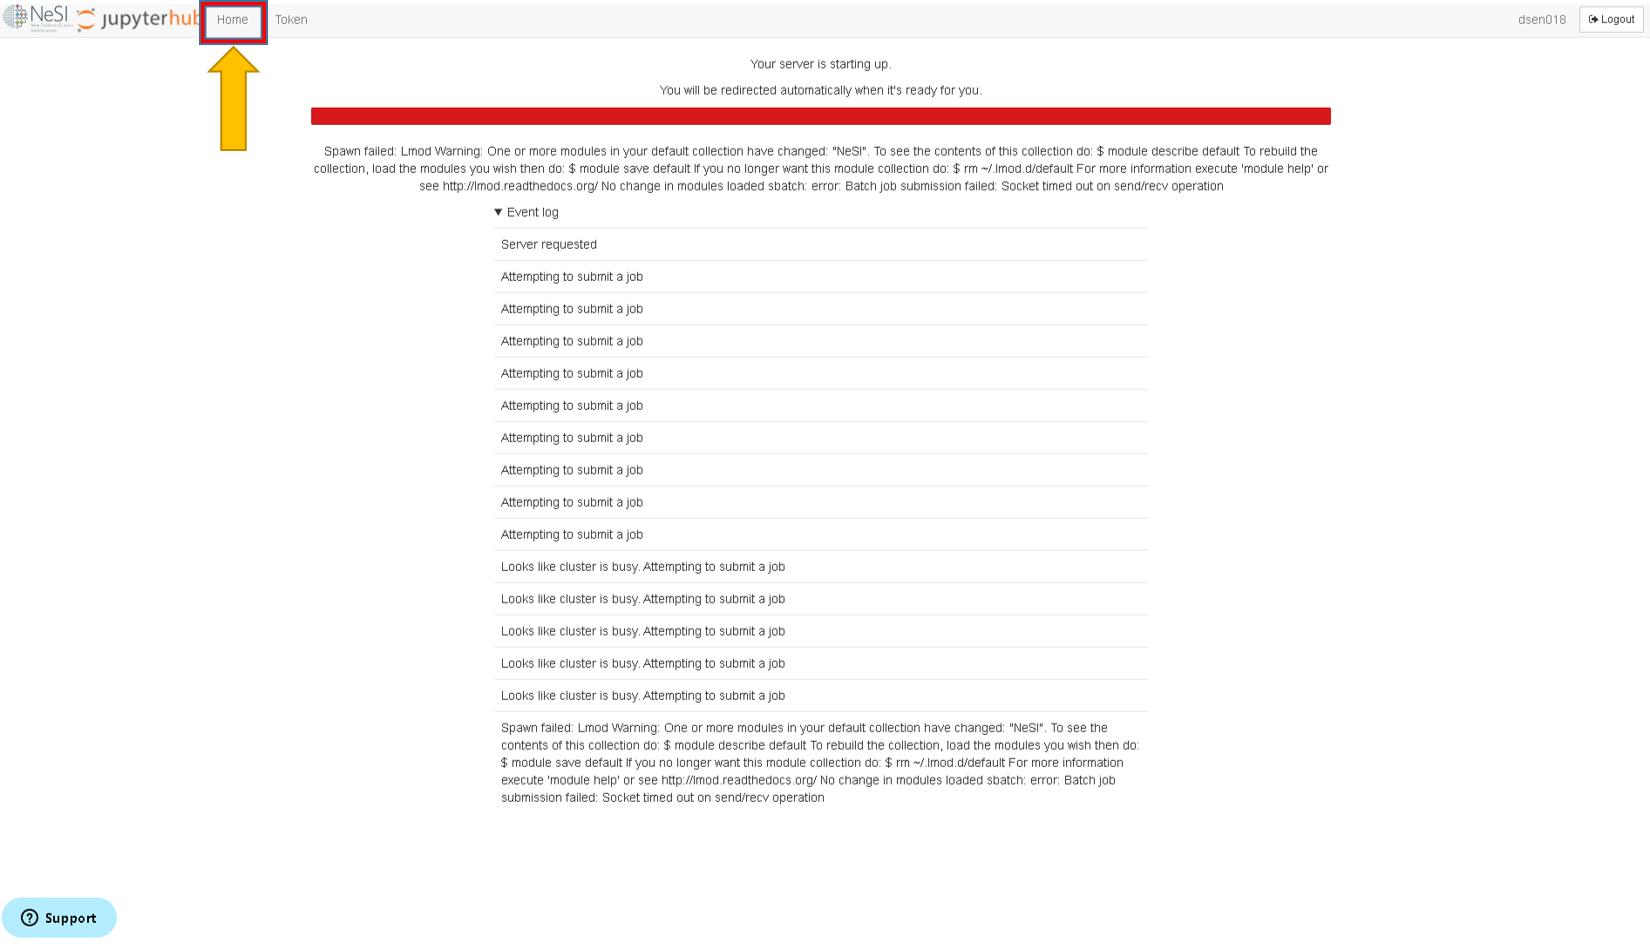
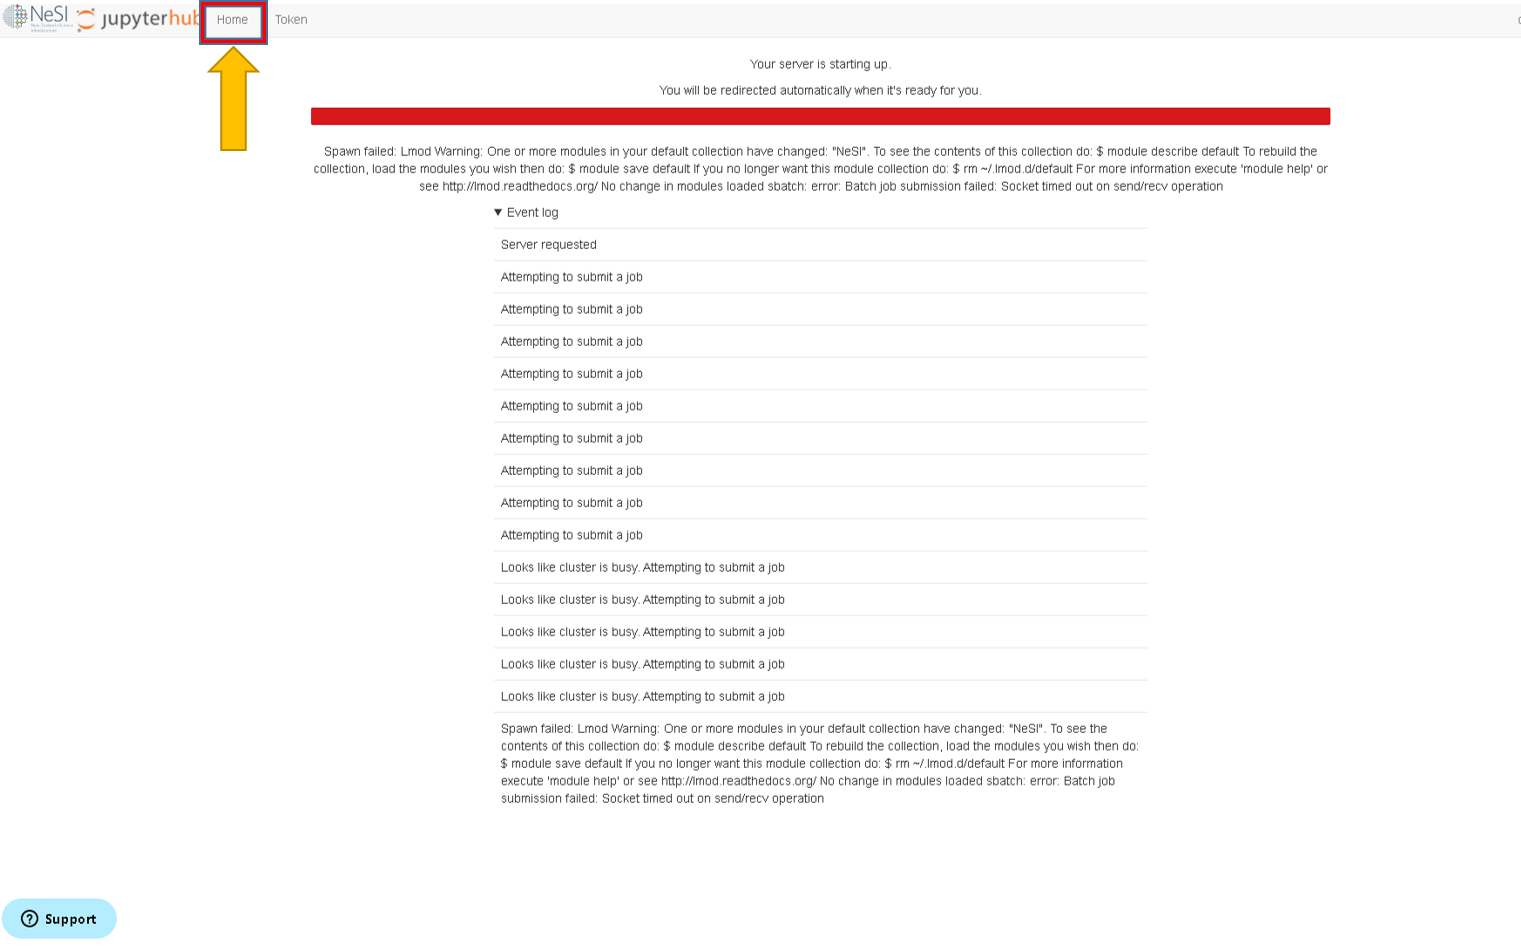
add Jupyter Troubleshooting page

diff --git a/Access_NeSI_platforms/5_Jupyter_Troubleshooting/README.md b/Access_NeSI_platforms/5_Jupyter_Troubleshooting/README.md
@@ -1,0 +1,28 @@
+### During startup
+
+1. Occasionnaly, jupyter session will not launch immediately and will stall on the folllowing screen for few minutes. If you are to experience this, click `Home` button on top left corner
+
+<p align="center"><img  src="../img/failedToSpawn.png" alt="drawing" width="900"/></p>
+
+1. It will re-direct to a page simlilar to below. Then click `Stop My Server` and wait for `Server Not Running` page
+
+<p align="center"><img src="../img/stopmyServer.png" alt="drawing" width="900"/></p>
+
+3. Then click on `Launch Sever` to restart the launch
+
+<p align="center"><img src="../img/STARTserver.png" alt="drawing" width="500"/></p>
+
+* * * 
+### During a session
+
+1. There can be instances where the server will stop during a session. This could be either due to incorrect `Wall time` at the startup or an issue from the server end itself. If so, below are the most likely messages to prompt on the screen 
+
+<p align="center"><img src="../img/daskServerandServerNotrunning.png" alt="drawing" width="1000"/></p>
+
+
+2. If you are to encouter either of those errors or someting similar, Click `Hub Control Panel` under `File`
+
+<p align="center"><img src="../img/HubControlPanel.png" alt="drawing" width="800"/></p>
+
+
+3. Then click `Stop My server` , wait for `Server Not Running` page and then click on `Launch Sever` to restart the launch
